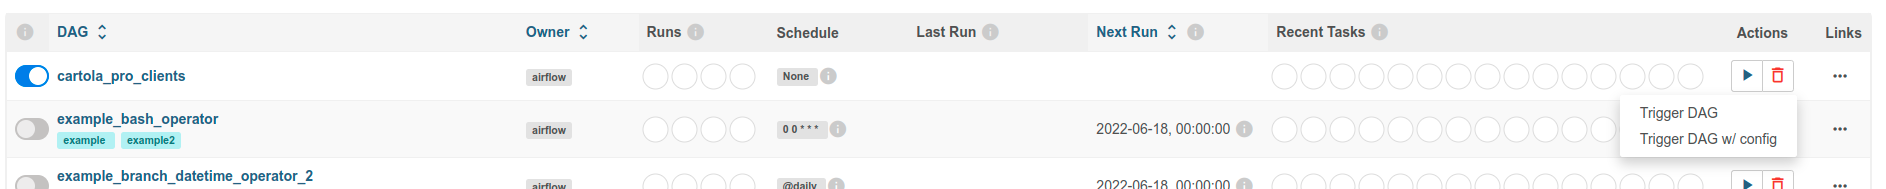
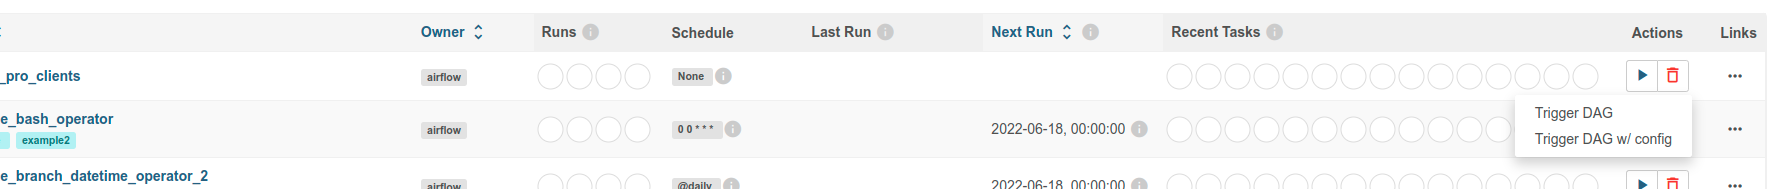
small code refactorings

diff --git a/src/refactored_code.py b/src/refactored_code.py
@@ -188,14 +188,14 @@ def roc_pr_curve(y, y_pred_prob, show=True):
 
 
 dataframe = pd.read_csv(
-    'data/desafiocartola.csv')
-dataframe.set_index('GLOBO_ID', inplace=True)
+    'data/my_data.csv')
+dataframe.set_index('COMPANY_ID', inplace=True)
 
 TARGET_NAME = 'pro_target'
 target = dataframe[TARGET_NAME]
 
 long_tail_variables = ['anos_desde_criacao', 'instagram_num', 'facebook_num',
-                       'min_camp', 'interacoes_g1', 'tempo_desperd',
+                       'min_camp', 'interacoes', 'tempo_desperd',
                        'iteracao_volei', 'iteracao_atletismo']
 
 dataframe = transform_long_tail_variables(dataframe, long_tail_variables)

diff --git a/src/tfx_pipepline.py b/src/tfx_pipepline.py
@@ -14,7 +14,7 @@ logging.set_verbosity(logging.INFO)
 
 os.environ["CUDA_VISIBLE_DEVICES"] = "-1"
 
-_pipeline_name = 'cartola_pro_clients'
+_pipeline_name = 'pro_clients_prediction'
 
 # CHANGE WITH YOUR PROJECT ROOT
 _project_root = '/home/alvaro/Documentos/model-produtization/'

diff --git a/README.md b/README.md
@@ -63,7 +63,7 @@ e no segundo:
 ```
 airflow scheduler
 ```
-Pronto, basta navegar para o endereço [localhost:8080](http://localhost:8080) e acessar o Airflow utilizando "admin" como usuário e senha. Caso você não encontre o **"cartola_pro_clients"** na lista de DAGS, execute o seguinte comando: 
+Pronto, basta navegar para o endereço [localhost:8080](http://localhost:8080) e acessar o Airflow utilizando "admin" como usuário e senha. Caso você não encontre o **"pro_clients_prediction"** na lista de DAGS, execute o seguinte comando: 
 
 ```
 python3 src/tfx_pipeline.py
@@ -101,7 +101,7 @@ O **PCA** foi removido da pipeline, pois a adoção do mesmo não gerou melhoria
 
 Uma das formas de reduzir a quantidade de variáveis e simplificar o modelo gerado foi através da adoção do VIF (Variance Inflation Factor). De maneira simplificada, o VIF mede o índice de colinearidade entre as variáveis do dataset, evidenciando as features que poderiam ser excluídas sem gerar grandes impactos na performance do modelo.
 
-O método **get_colinear_features** faz a iteração pelo dataset até trazer todas as features que têm um VIF maior que 3. Ao total, 7 variáveis foram excluídas do modelo, sendo elas: ```log_interacoes_g1, norm_rodadas, rel_pont, dif_melhoria, log_iteracao_atletismo, max_camp, log_anos_desde_criacao```. Ainda assim, os resultados atingidos pelo modelo se mantiveram os mesmos.
+O método **get_colinear_features** faz a iteração pelo dataset até trazer todas as features que têm um VIF maior que 3. Ao total, 7 variáveis foram excluídas do modelo, sendo elas: ```log_interacoes, norm_rodadas, rel_pont, dif_melhoria, log_iteracao_atletismo, max_camp, log_anos_desde_criacao```. Ainda assim, os resultados atingidos pelo modelo se mantiveram os mesmos.
 
 Por fim, embora as variáveis remanescentes não sejam colineares, nem todas precisam fazer parte do modelo, visto que algumas delas possuem pouca influência no resultado gerado pelo mesmo. O gráfico abaixo mostra a importância das variáveis na regressão logística:
 
